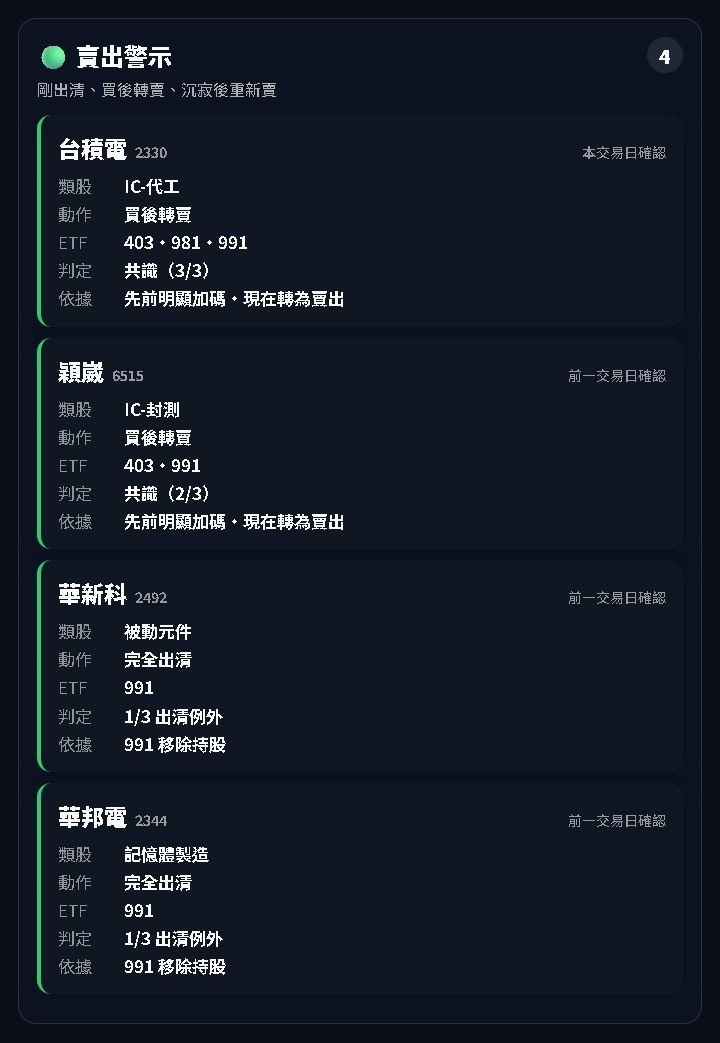
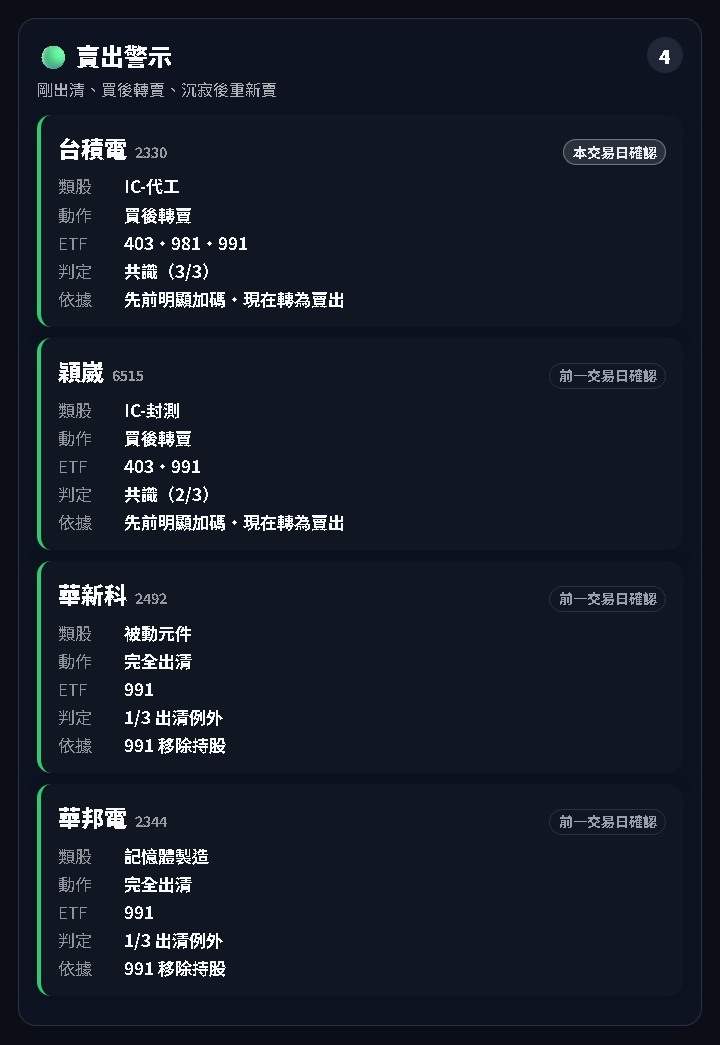
Differentiate ETF action confirmation dates

diff --git a/src/tag_flow_action_cards.py b/src/tag_flow_action_cards.py
@@ -41,7 +41,15 @@ ACTION_BOARD_CSS = r"""
 .tfv2-sell {border-color:#2ECC71}
 .tfv2-stock-row {display:flex; justify-content:space-between; gap:.65rem;
   align-items:baseline}
-.tfv2-age {font-size:.68rem; opacity:.58; white-space:nowrap; flex:none}
+.tfv2-age {display:inline-flex; align-items:center; border:1px solid;
+  border-radius:999px; padding:.13rem .42rem; font-size:.68rem; font-weight:720;
+  line-height:1.35; white-space:nowrap; flex:none}
+.tfv2-age-current {color:rgba(248,250,252,.94); background:rgba(226,232,240,.13);
+  border-color:rgba(226,232,240,.38); box-shadow:inset 0 0 0 1px rgba(255,255,255,.035)}
+.tfv2-age-prior {color:rgba(203,213,225,.72); background:transparent;
+  border-color:rgba(148,163,184,.2)}
+.tfv2-age-latest {color:rgba(203,213,225,.7); background:rgba(148,163,184,.06);
+  border-color:rgba(148,163,184,.16)}
 .tfv2-stock {font-size:1.08rem; font-weight:850; min-width:0}
 .tfv2-code {font-size:.72rem; font-weight:700; opacity:.58; margin-left:.42rem}
 .tfv2-fields {display:grid; gap:.18rem; margin-top:.42rem}
@@ -56,8 +64,11 @@ ACTION_BOARD_CSS = r"""
 def event_card(event: dict, group: str) -> str:
     if group == "hold":
         age = "最新資料仍確認"
+        age_class = "latest"
     else:
-        age = "本交易日確認" if event["age_sessions"] == 0 else "前一交易日確認"
+        is_current = event["age_sessions"] == 0
+        age = "本交易日確認" if is_current else "前一交易日確認"
+        age_class = "current" if is_current else "prior"
     evidence = "・".join(event.get("evidence_parts") or [event.get("reason", "")])
     stock_id = str(event.get("stock_id") or "")
     identity = escape(str(event["name"]))
@@ -82,7 +93,7 @@ def event_card(event: dict, group: str) -> str:
         f'<div class="tfv2-card tfv2-{group}">'
         '<div class="tfv2-stock-row">'
         f'<div class="tfv2-stock">{identity}</div>'
-        f'<span class="tfv2-age">{age}</span>'
+        f'<span class="tfv2-age tfv2-age-{age_class}">{age}</span>'
         "</div>"
         f'<div class="tfv2-fields">{field_html}</div>'
         "</div>"

diff --git a/tests/test_etf_action_summary.py b/tests/test_etf_action_summary.py
@@ -36,7 +36,10 @@ class EtfActionSummaryTests(unittest.TestCase):
 
     def test_each_image_html_contains_one_complete_lane_only(self) -> None:
         signals = {
-            "buying": [_event(index) for index in range(6)],
+            "buying": [
+                *[_event(index) for index in range(5)],
+                _event(5, age=1),
+            ],
             "holding": [_event(index + 10) for index in range(4)],
             "selling": [_event(index + 20, age=1) for index in range(4)],
         }
@@ -49,6 +52,9 @@ class EtfActionSummaryTests(unittest.TestCase):
         self.assertEqual(6, buy.count('class="tfv2-card tfv2-buy"'))
         self.assertEqual(4, hold.count('class="tfv2-card tfv2-hold"'))
         self.assertEqual(4, sell.count('class="tfv2-card tfv2-sell"'))
+        self.assertIn('class="tfv2-age tfv2-age-current">本交易日確認', buy)
+        self.assertIn('class="tfv2-age tfv2-age-prior">前一交易日確認', buy)
+        self.assertIn('class="tfv2-age tfv2-age-latest">最新資料仍確認', hold)
         self.assertIn("測試股票0", buy)
         self.assertNotIn("測試股票10", buy)
         self.assertIn("測試股票13", hold)

diff --git a/README.md b/README.md
@@ -617,7 +617,7 @@ Each of these is a trap that has already caused a wrong result or a missed step.
 
 17. **`類股輪動` is dashboard-only category context.** `src/tag_flow_rotation.py` is the only source of category phase, ranking, breadth, confidence, and 3-session-EWMA current-pressure warnings. It uses all common history with EWMA half-lives 3/10/20 for current pressure/underlying direction/background, judges magnitude against each category's own prior pressure history, requires majority-ETF direction breadth, and confirms a changed phase only after two consecutive common sessions. The graph selector belongs directly above the category trend chart; unsupported 60/120/240 ranges remain hidden until enough common history exists. Changing the graph range must not change phase or rank. There is deliberately no category-rotation LINE command, cache, image, scheduled message, email narrative, or stock list.
 
-18. **`ETF 動作` is the actionable buy/hold/sell evidence radar and the only ETF-flow insight sent to LINE.** `src/tag_flow_events.py` is the single evidence source; the website and `scripts/generate_etf_action_summary.py` share `src/tag_flow_action_cards.py`. The on-demand `ETF動作` reply is currently exactly **3 mobile-width vertical images**, ordered buy, hold, sell. The cached text and `load_etf_action_text()` remain intact for later reuse, but `ETF_ACTION_INCLUDE_TEXT = False` keeps it out of the reply; changing that single constant to `True` restores text-first delivery. Each image renders one complete website lane only—lane title/count/note plus all cards, with no repeated page title, date summary, methodology boxes, or footer. The renderer must verify each lane's `.tfv2-card` count against `data/etf_action_insight.json`, capture that lane body's computed height, and never use a fixed-height crop, `max-height`, or `overflow:hidden`; every lane's last card must be present. The webhook only serves `data/summaries/etf_action_buy_latest.jpg`, `etf_action_hold_latest.jpg`, and `etf_action_sell_latest.jpg` and must never render or recalculate during a reply. The scheduled daily broadcast remains different and unchanged: one combined report/action text plus exactly four active-ETF images. Text and admin email retain the fixed field order `名稱｜代號`, `類股`, `動作`, `ETF`, `判定`, `依據`; do not restore event-specific labels or automatic wrapping. The three decisions are: `買進觀察` for a fresh disclosed entry/re-entry/reversal/restart, `續抱參考` for exceptional continuing conviction, and `賣出警示` for a fresh exit/reversal/restart. A `new_position` in one daily comparison means newly present, not necessarily first-ever; if that ETF has any earlier `full_exit` in its full available history, label the event `重新建倉`. Cross-ETF directional comparisons remain restricted to common sessions. Fresh buy/sell events live for exactly the latest **2 common ETF sessions**: the UI labels them `本交易日確認` then `前一交易日確認`, and they disappear on the next common session; there must never be a `3 日前確認` state. The hold lane is different: `最新資料仍確認` is recalculated from scratch every day and is not an old event retained by age. Ordinary adjustments must clear `max(0.02% ActiveWeight, 35% of that ETF's trailing trade median)`; tiny full-exit residue is hidden. **Qualification is fixed and user-visible:** an ordinary fresh action requires at least 2/3 ETFs aligned. A 1/3 action is hidden unless it is a holding-list change (`新建倉／重新建倉／完整出清`) or a genuine reversal (`賣後轉買／買後轉賣`) that persists for two common sessions. A single-ETF ordinary restart must not surface. Ordinary continuations stay out of fresh buy/sell lanes; the hold lane requires participation by at least 2 ETFs, at least 4 meaningful buy days in the latest 10 common sessions, buy days at least 2 greater than sell days, normalized net flow of at least 0.20, and a latest-session buy confirmation. The optional LINE text states the 2/3 rule and narrow 1/3 exceptions; the three images avoid repeating that explanation. The page deliberately has no date interval, chart, table, or cash-size ranking. 類股 is context only; 概念 is never interpreted. Never infer that a trade occurred at a price high/low from ETF holdings alone; price timing requires separately verified market prices.
+18. **`ETF 動作` is the actionable buy/hold/sell evidence radar and the only ETF-flow insight sent to LINE.** `src/tag_flow_events.py` is the single evidence source; the website and `scripts/generate_etf_action_summary.py` share `src/tag_flow_action_cards.py`. The on-demand `ETF動作` reply is currently exactly **3 mobile-width vertical images**, ordered buy, hold, sell. The cached text and `load_etf_action_text()` remain intact for later reuse, but `ETF_ACTION_INCLUDE_TEXT = False` keeps it out of the reply; changing that single constant to `True` restores text-first delivery. Each image renders one complete website lane only—lane title/count/note plus all cards, with no repeated page title, date summary, methodology boxes, or footer. The renderer must verify each lane's `.tfv2-card` count against `data/etf_action_insight.json`, capture that lane body's computed height, and never use a fixed-height crop, `max-height`, or `overflow:hidden`; every lane's last card must be present. The webhook only serves `data/summaries/etf_action_buy_latest.jpg`, `etf_action_hold_latest.jpg`, and `etf_action_sell_latest.jpg` and must never render or recalculate during a reply. The scheduled daily broadcast remains different and unchanged: one combined report/action text plus exactly four active-ETF images. Text and admin email retain the fixed field order `名稱｜代號`, `類股`, `動作`, `ETF`, `判定`, `依據`; do not restore event-specific labels or automatic wrapping. The three decisions are: `買進觀察` for a fresh disclosed entry/re-entry/reversal/restart, `續抱參考` for exceptional continuing conviction, and `賣出警示` for a fresh exit/reversal/restart. A `new_position` in one daily comparison means newly present, not necessarily first-ever; if that ETF has any earlier `full_exit` in its full available history, label the event `重新建倉`. Cross-ETF directional comparisons remain restricted to common sessions. Fresh buy/sell events live for exactly the latest **2 common ETF sessions**: the UI labels them `本交易日確認` then `前一交易日確認`, and they disappear on the next common session; there must never be a `3 日前確認` state. These time labels are neutral secondary pills: the current-session pill has a subtle filled treatment, while the prior-session pill is dimmer and outlined; neither may reuse or compete with the red/orange/green lane colors. The hold lane is different: `最新資料仍確認` is recalculated from scratch every day and is not an old event retained by age. Ordinary adjustments must clear `max(0.02% ActiveWeight, 35% of that ETF's trailing trade median)`; tiny full-exit residue is hidden. **Qualification is fixed and user-visible:** an ordinary fresh action requires at least 2/3 ETFs aligned. A 1/3 action is hidden unless it is a holding-list change (`新建倉／重新建倉／完整出清`) or a genuine reversal (`賣後轉買／買後轉賣`) that persists for two common sessions. A single-ETF ordinary restart must not surface. Ordinary continuations stay out of fresh buy/sell lanes; the hold lane requires participation by at least 2 ETFs, at least 4 meaningful buy days in the latest 10 common sessions, buy days at least 2 greater than sell days, normalized net flow of at least 0.20, and a latest-session buy confirmation. The optional LINE text states the 2/3 rule and narrow 1/3 exceptions; the three images avoid repeating that explanation. The page deliberately has no date interval, chart, table, or cash-size ranking. 類股 is context only; 概念 is never interpreted. Never infer that a trade occurred at a price high/low from ETF holdings alone; price timing requires separately verified market prices.
 
 19. **融資風險 is an estimate, not an official account-average series.** The exchanges publish margin-share balances, prices, and aggregate financing amounts, but not every brokerage customer's supplementary collateral. Its numerator must exclude the exchange `00...` ETF code family while its denominator retains the official aggregate financing balance, matching MacroMicro's published ETF-exclusion principle; do not silently put ETFs back into the numerator. Always label the result `全市場融資擔保估算率` / `公開資料估算`; never call it the official `台股平均融資維持率`, never claim it reproduces MacroMicro, and never describe 130% as this aggregate line's exact forced-liquidation trigger. Only `scripts/update_margin_maintenance.py` may call TWSE/TPEx. The dashboard and webhook are cache-only. Red means improving buffer and green means worsening buffer, per the site's Taiwan color convention. The `吳大師` card must keep both quick replies (`ETF 動作` and `融資風險`).
 
